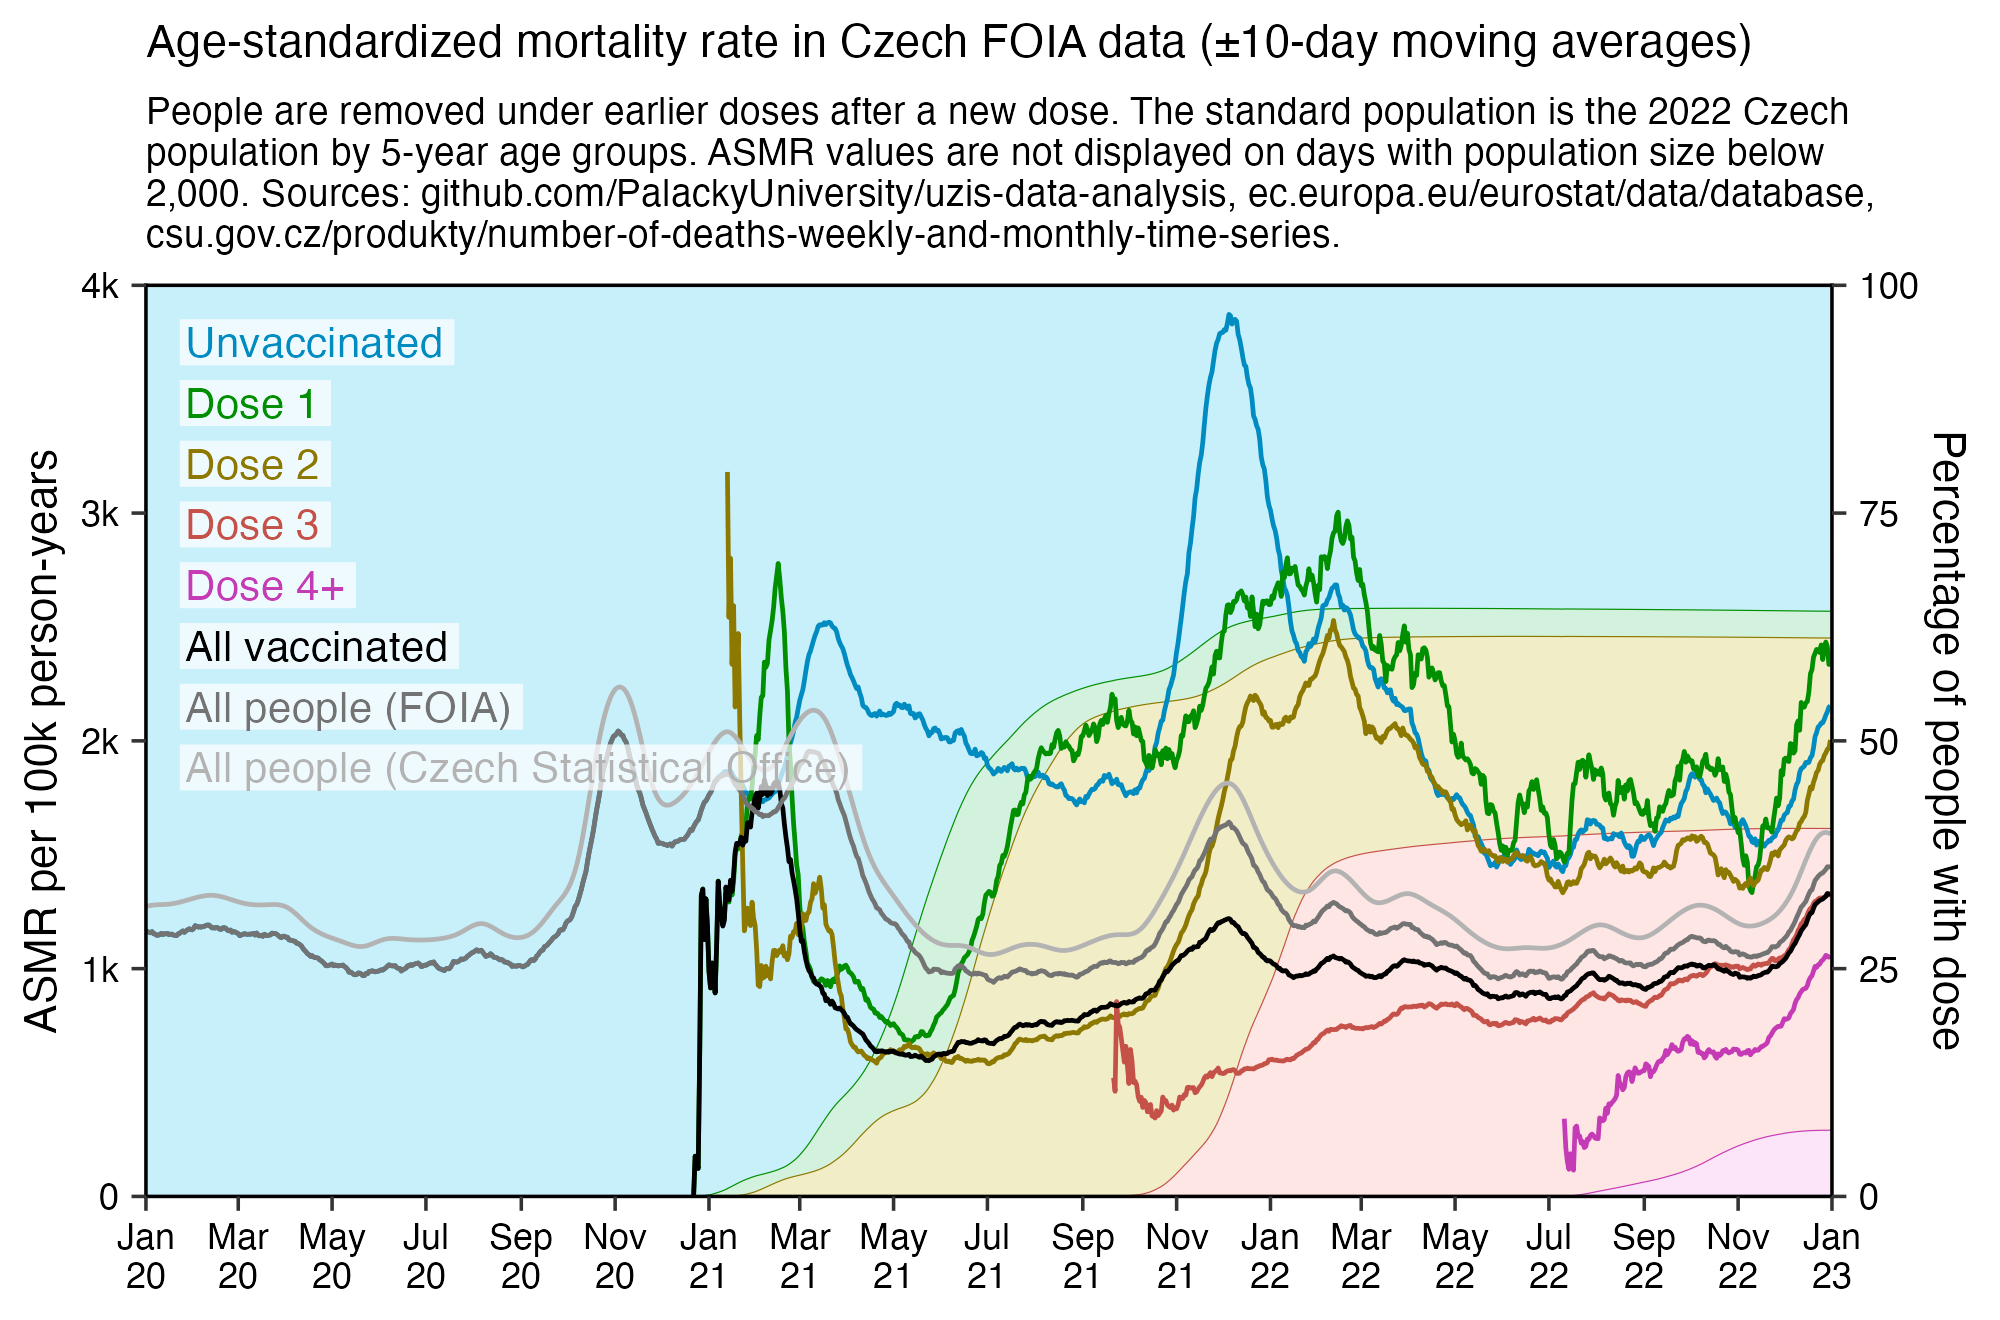
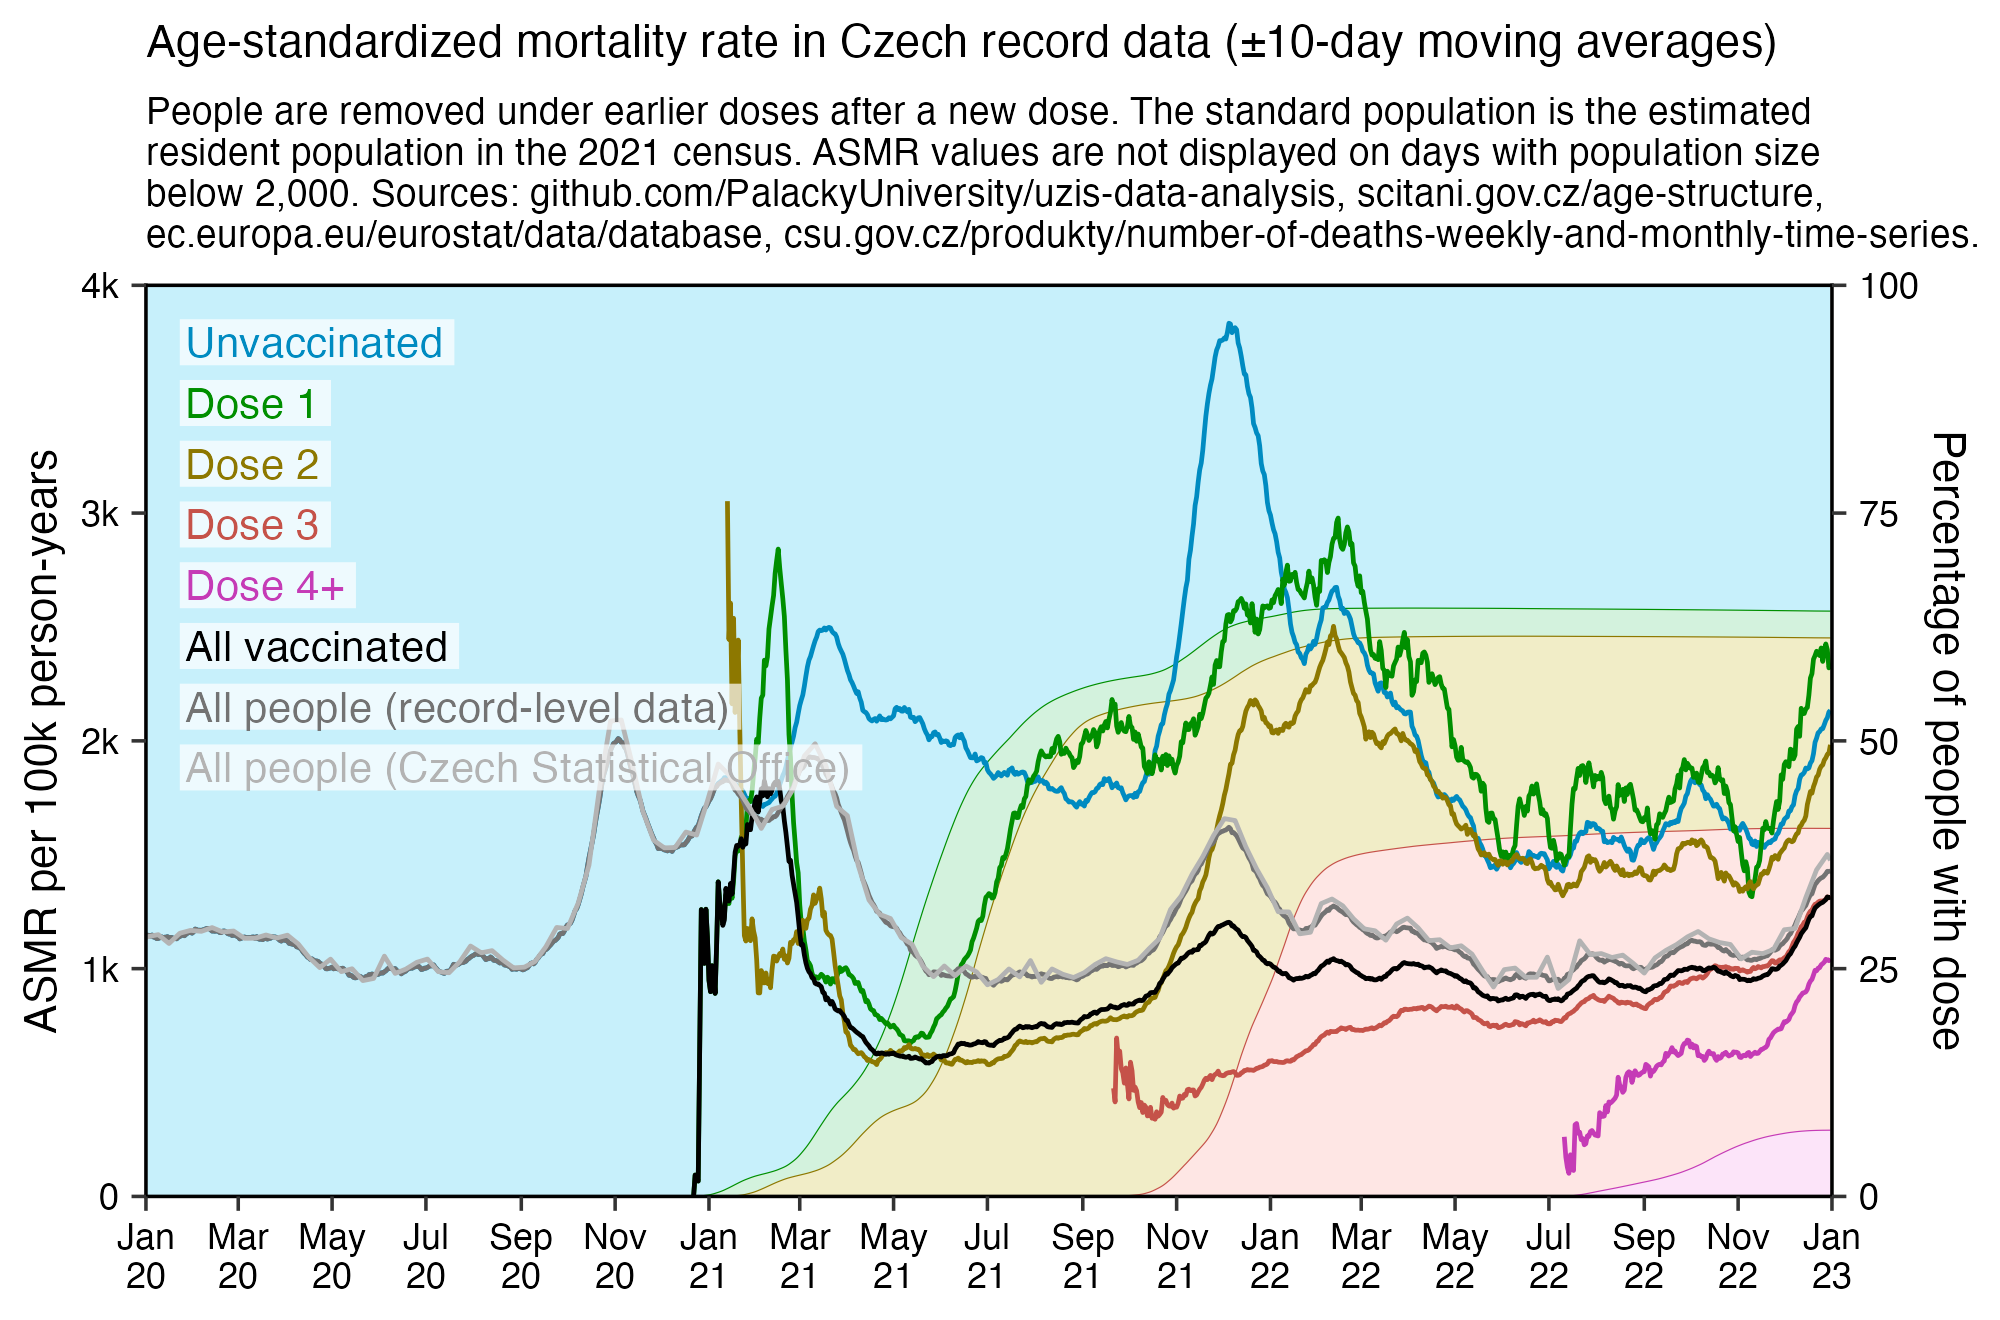
a

diff --git a/czech.html b/czech.html
@@ -323,7 +323,7 @@ type          2021-07 2021-08 2021-09 2021-10 2021-11 2021-12
 <div class="width8">
 <img src="i/czech-asmr.png">
 </div>
-<p>In the plot above the dark gray line shows the mortality rate among both vaccinated and unvaccinated people in the record-level data, and the light gray line shows the mortality rate based on the weekly number of deaths reported by the Czech Statistical Office combined with population estimates from Eurostat. [<a href="https://csu.gov.cz/produkty/number-of-deaths-weekly-and-monthly-time-series">https://csu.gov.cz/produkty/number-of-deaths-weekly-and-monthly-time-series</a>, <a href="https://ec.europa.eu/eurostat/data/database">https://ec.europa.eu/eurostat/data/database</a>] I don't know why the dark gray line is much lower than the light gray line.</p>
+<p>In the plot above the dark gray line shows the mortality rate among both vaccinated and unvaccinated people in the record-level data, and the light gray line shows the mortality rate based on the weekly number of deaths in 5-year age groups reported by the Czech Statistical Office combined with population estimates from Eurostat. [<a href="https://csu.gov.cz/produkty/number-of-deaths-weekly-and-monthly-time-series">https://csu.gov.cz/produkty/number-of-deaths-weekly-and-monthly-time-series</a>, <a href="https://ec.europa.eu/eurostat/data/database">https://ec.europa.eu/eurostat/data/database</a>] The slight discrepancy between the lines might partially be because I calculated the dark gray line using single-year age groups but the light gray line using 5-year age groups.</p>
 <pre>library(data.table);library(ggplot2);library(stringr)
 
 cutl=\(x,y)cut(x,c(y,Inf),y,T,F)
@@ -334,27 +334,29 @@ dead=read.csv(&quot;http://sars2.net/f/czweeklydead.csv&quot;)
 xstart=as.Date(&quot;2020-1-1&quot;);xend=as.Date(&quot;2022-12-31&quot;)
 dates=seq(xstart,xend,1)
 d=data.frame(date=dates,age=rep(unique(dead$age),each=length(dates)))
-d$dead=c(sapply(split(dead,dead$age),\(x)predict(smooth.spline(isoweek(x$year,x$week,4),x$dead),as.numeric(dates))$y))/7
+d$dead=c(sapply(split(dead,dead$age),\(x)approx(isoweek(x$year,x$week,4),x$dead/7,dates,rule=2)$y))
 
-pop=read.csv(&quot;http://sars2.net/f/czpopdead.csv&quot;)
+std=read.csv(&quot;http://sars2.net/f/czcensus2021pop.csv&quot;)[,2]
+std2=tapply(std,pmin(0:100%/%5*5,90),sum)
+
+pop=fread(&quot;http://sars2.net/f/czpopdead.csv&quot;)[year&gt;=2010]
 pop=aggregate(pop[,3,drop=F],list(year=pop$year,age=cutl(pop$age,unique(d$age))),sum)
-std=pop$pop[pop$year==2022]
-d$pop=c(sapply(split(pop,pop$age),\(x){x$date=as.Date(paste0(x$year,&quot;-1-1&quot;));predict(lm(pop~date,x),list(date=dates))}))
+d$pop=c(sapply(split(pop,pop$age),\(x)predict(smooth.spline(as.Date(paste0(x$year,&quot;-1-1&quot;)),x$pop,spar=.1),as.numeric(dates))$y))
 
 buck=fread(&quot;http://sars2.net/f/czbuckets.csv.gz&quot;)
-buck=buck[,.(alive=sum(alive),dead=sum(dead)),.(date,age=cutl(age,unique(d$age)),dose=ifelse(dose==0,&quot;Unvaccinated&quot;,paste0(&quot;Dose &quot;,ifelse(dose&gt;=4,&quot;4+&quot;,dose))))]
-buck=rbind(buck,cbind(expand.grid(date=as.IDate(seq(xstart,xend,1)),age=unique(buck$age),dose=unique(buck$dose)),alive=0,dead=0))
+buck=buck[,.(alive=sum(alive),dead=sum(dead)),.(date,age=pmin(age,100),dose=ifelse(dose==0,&quot;Unvaccinated&quot;,paste0(&quot;Dose &quot;,ifelse(dose&gt;=4,&quot;4+&quot;,dose))))]
+buck=rbind(buck,cbind(expand.grid(date=as.IDate(seq(xstart,xend,1)),age=0:100,dose=unique(buck$dose)),alive=0,dead=0))
 buck=unique(buck,by=1:3)[order(dose,age,date)]
 
-vax=cbind(buck[dose!=&quot;Unvaccinated&quot;,.(alive=sum(alive),dead=sum(dead)),.(age=age,date=date)],dose=&quot;All vaccinated&quot;)
-all=cbind(buck[,.(alive=sum(alive),dead=sum(dead)),.(age=age,date=date)],dose=&quot;All people (FOIA)&quot;)
+vax=cbind(buck[dose!=&quot;Unvaccinated&quot;,.(alive=sum(alive),dead=sum(dead)),.(age,date)],dose=&quot;All vaccinated&quot;)
+all=cbind(buck[,.(alive=sum(alive),dead=sum(dead)),.(age,date)],dose=&quot;All people (record-level data)&quot;)
 
 buck=rbind(buck,vax,all)
-buck=buck[,.(date=date,alive=ma(alive,10),dead=ma(dead,10)),.(age=age,dose=dose)]
+buck=buck[,.(date=date,alive=ma(alive,10),dead=ma(dead,10)),.(age,dose)]
 
-xy=aggregate(list(pop=buck$alive,y=buck$dead/buck$alive*365e5*std[buck$age]/sum(std)),list(x=buck$date,z=buck$dose),sum,na.rm=T)
+xy=with(buck,aggregate(list(pop=alive,y=dead/alive*365e5*std[age+1]/sum(std)),list(x=date,z=dose),sum,na.rm=T))
 
-cz=aggregate(list(y=d$dead/d$pop*365e5*std[factor(d$age)]/sum(std)),data.frame(x=d$date),sum)
+cz=aggregate(list(y=d$dead/d$pop*365e5*std2[factor(d$age)]/sum(std2)),data.frame(x=d$date),sum)
 xy=rbind(xy,cbind(cz,pop=NA,z=&quot;All people (Czech Statistical Office)&quot;))
 
 xy$z=factor(xy$z,unique(xy$z))
@@ -370,18 +372,18 @@ fill=c(hcl(c(210,120,60,0,300)+15,80,70),&quot;black&quot;,&quot;gray45&quot;,&q
 label=data.frame(x=xstart+.02*(xend-xstart),y=seq(yend,,-yend/15,nlevels(xy$z))-yend/16,label=levels(xy$z))
 
 xy2=xy[grep(&quot;Unvaccinated|Dose&quot;,xy$z),]
-xy2$pct=99.97*xy2$pop/tapply(xy2$pop,xy2$x,sum,na.rm=T)[as.character(xy2$x)]
+xy2$pct=99.99*xy2$pop/tapply(xy2$pop,xy2$x,sum,na.rm=T)[as.character(xy2$x)]
 
 ggplot(xy2,aes(x,y))+
 geom_area(aes(color=z,fill=z,y=pct*secmult),linewidth=.1,alpha=.22)+
 geom_line(aes(color=z),linewidth=.4)+
 geom_line(data=xy[grep(&quot;All vaccinated&quot;,xy$z),],color=color[6],linewidth=.4)+
-geom_line(data=xy[grep(&quot;FOIA&quot;,xy$z),],color=color[7],linewidth=.4)+
+geom_line(data=xy[grep(&quot;record-level&quot;,xy$z),],color=color[7],linewidth=.4)+
 geom_line(data=xy[grep(&quot;Office&quot;,xy$z),],color=color[8],linewidth=.4)+
 geom_hline(yintercept=c(0,yend),linewidth=.3,lineend=&quot;square&quot;)+
 geom_vline(xintercept=c(xstart,xend),linewidth=.3,lineend=&quot;square&quot;)+
 geom_label(data=label,aes(x=x,y=y,label=label),fill=alpha(&quot;white&quot;,.7),label.r=unit(0,&quot;lines&quot;),label.padding=unit(.1,&quot;lines&quot;),label.size=0,color=color[1:nrow(label)],size=2.7,hjust=0)+
-labs(title=&quot;Age-standardized mortality rate in Czech FOIA data (±10-day moving averages)&quot;,subtitle=str_wrap(&quot;People are removed under earlier doses after a new dose. The standard population is the 2022 Czech population by 5-year age groups. ASMR values are not displayed on days with population size below 2,000. Sources: github.com/PalackyUniversity/uzis-data-analysis, ec.europa.eu/eurostat/data/database,  csu.gov.cz/produkty/number-of-deaths-weekly-and-monthly-time-series.&quot;,108),x=NULL,y=&quot;ASMR per 100k person-years&quot;)+
+labs(title=&quot;Age-standardized mortality rate in Czech record data (±10-day moving averages)&quot;,subtitle=str_wrap(&quot;People are removed under earlier doses after a new dose. The standard population is the estimated resident population in the 2021 census. ASMR values are not displayed on days with population size below 2,000. Sources: github.com/PalackyUniversity/uzis-data-analysis, scitani.gov.cz/age-structure, ec.europa.eu/eurostat/data/database,  csu.gov.cz/produkty/number-of-deaths-weekly-and-monthly-time-series.&quot;,108),x=NULL,y=&quot;ASMR per 100k person-years&quot;)+
 scale_x_date(limits=c(xstart,xend),breaks=seq(xstart,xend,&quot;2 month&quot;),date_labels=&quot;%b\n%y&quot;)+
 scale_y_continuous(limits=c(0,yend),breaks=seq(0,yend,ystep),labels=\(x)ifelse(x==0,x,paste0(x/1e3,&quot;k&quot;)),sec.axis=sec_axis(trans=~./secmult,breaks=seq(0,yend2,ystep2),name=&quot;Percentage of people with dose&quot;))+
 scale_color_manual(values=color)+
@@ -396,7 +398,8 @@ theme(axis.text=element_text(size=6.5,color=&quot;black&quot;),
   plot.margin=margin(.3,.3,.3,.3,&quot;lines&quot;),
   plot.subtitle=element_text(size=6.8),
   plot.title=element_text(size=8.2))
-ggsave(&quot;1.png&quot;,width=5,height=3.3,dpi=400)</pre>
+ggsave(&quot;1.png&quot;,width=5,height=3.3,dpi=400)
+system(&quot;qlmanage -p 1.png &amp;&gt;/dev/null&quot;)</pre>
 <h2>
 <a href=#Why_is_there_a_peak_in_mortality_rate_about_30_to_35_weeks_after_the_second_dose id=Why_is_there_a_peak_in_mortality_rate_about_30_to_35_weeks_after_the_second_dose>Why is there a peak in mortality rate about 30 to 35 weeks after the second dose?</a>
 </h2>
@@ -690,7 +693,7 @@ fwrite(buck,&quot;czbucketsfirstdose.csv&quot;)</pre>
 <div class="width7">
 <img src="i/czech-weekafter.png">
 </div>
-<p>However in the plot above my baseline was not adjusted for seasonal variation in mortality, because I calculated the baseline based on the total mortality rate in 2021-2022 among all people who are included in the record-level data. In the plot below the dark gray baseline was calculated the same way as in the plot above. But if you look at the light gray baseline which is adjusted for seasonal variation in deaths and for the impact of COVID waves, there's a big fall in the baseline during the first 10 weeks after vaccination, which is because many people got vaccinated in the first quarter of 2021 when there was a large number of COVID deaths and there was also higher mortality because it was winter:</p>
+<p>However in the plot above my baseline was not adjusted for seasonal variation in mortality, because I calculated the baseline based on the total mortality rate in 2021-2022 among all people who are included in the record-level data. In the plot below the dark gray baseline was calculated the same way as in the plot above. But if you look at the light gray baseline which is adjusted for seasonal variation in deaths and for the impact of COVID waves, there's a big fall in the baseline during the first 10 weeks after vaccination, which is because many people got vaccinated in the first quarter of 2021 when there was a large number of COVID deaths and there was also elevated mortality because it was winter:</p>
 <div class="width5">
 <img src="i/czech-weekafter-3.png">
 </div>
@@ -1020,7 +1023,6 @@ t[type1==&quot;Moderna&quot;&amp;type2==&quot;Pfizer&quot;,.(asmr=sum(dead/pop*s
 <a href=#Plot_of_multiple_variables_from_OWID id=Plot_of_multiple_variables_from_OWID>Plot of multiple variables from OWID</a>
 </h2>
 <p>In the Czech Republic spikes in excess mortality coincide with spikes in PCR positivity like in other countries, except that after Omicron there seems to be high PCR positivity coupled with low excess mortality, which is also similiar to many other countries. In winter 2020-2021 there's a weird three-hump pattern where there's three different spikes in excess deaths, but each of them also coincides with a spike in PCR positivity. And around mid-2021 when the number of new vaccine doses given peaked, there was low excess mortality.</p>
-<p>During the two-year period in the record-level data that has data for deaths available and that is after vaccination started, the period that has the lowest COVID deaths seems to be approximately in July to August 2021.</p>
 <div class="width7">
 <img src="i/czech-owid.png">
 </div>
@@ -1086,7 +1088,7 @@ print(mutate_if(t,is.double,round,1),row.names=F)</pre>
 <h2>
 <a href=#Simple_calculation_for_monthly_ratio_of_unvaccinated_ASMR_to_vaccinated_ASMR id=Simple_calculation_for_monthly_ratio_of_unvaccinated_ASMR_to_vaccinated_ASMR>Simple calculation for monthly ratio of unvaccinated ASMR to vaccinated ASMR</a>
 </h2>
-<p>In October 2021 unvaccinated people had about 2.1 times higher ASMR than vaccinated people, but over the next two months when there was a spike in excess deaths caused by COVID, the ratio increased to about 2.8 in November and about 3.1 in December. But by May 2022 when COVID deaths had fallen close to zero, the ratio had fallen to about 1.7:</p>
+<p>In October 2021 unvaccinated people had about 2.1 times higher ASMR than vaccinated people, but over the next two months when there was a spike in excess deaths caused by COVID, the ratio increased first to about 2.8 in November and then about 3.1 in December. But by May 2022 when COVID deaths had fallen close to zero, the ratio had fallen back down to about 1.7:</p>
 <pre>&gt; buck=fread(&quot;http://sars2.net/f/czbucketsfirstdose.csv.gz&quot;)[month&gt;=&quot;2020-12&quot;]
 &gt; std=fread(&quot;http://sars2.net/f/czcensus2021pop.csv&quot;)[[2]]
 &gt; buck[,.(dead=sum(dead),alive=sum(alive)),.(month,vax=type!=&quot;Unvaccinated&quot;,age=pmin(age,100))][,.(asmr=sum(dead/alive*std[age+1]/sum(std)*365e5)),.(month,vax)][,.(ratio=round(asmr[!vax]/asmr[vax],1)),month]|&gt;print(row.names=F)
@@ -1300,7 +1302,7 @@ system(&quot;w=`identify -format %w i1.png`;pad=44;convert -gravity northwest -p
 &gt; totage=t[,.(age=&quot;Total&quot;,alive=as.double(sum(alive)),asmr=sum(dead/alive*std[pmin(age,100)+1]/sum(std)*365e5)),.(type)]
 &gt; t=t[,.(alive=sum(alive),asmr=sum(dead/alive*std[pmin(age,100)+1]/sum(std)*365e5)),.(type,age=pmin(age%/%10*10,90))]
 &gt; t=rbind(t,totage)
-&gt; t[,.(ratio=asmr[type==&quot;Moderna&quot;]/asmr[type==&quot;Pfizer&quot;]),.(age)][order(age)]|&gt;print(row.names=F)
+&gt; t[,.(ratio=asmr[type==&quot;Moderna&quot;]/asmr[type==&quot;Pfizer&quot;]),age][order(age)]|&gt;print(row.names=F)
    age     ratio
     10 1.5526322
     20 1.3476644
